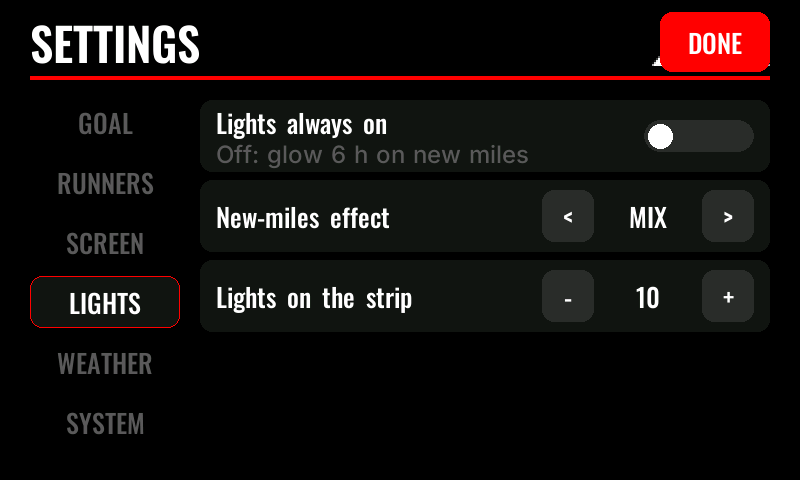
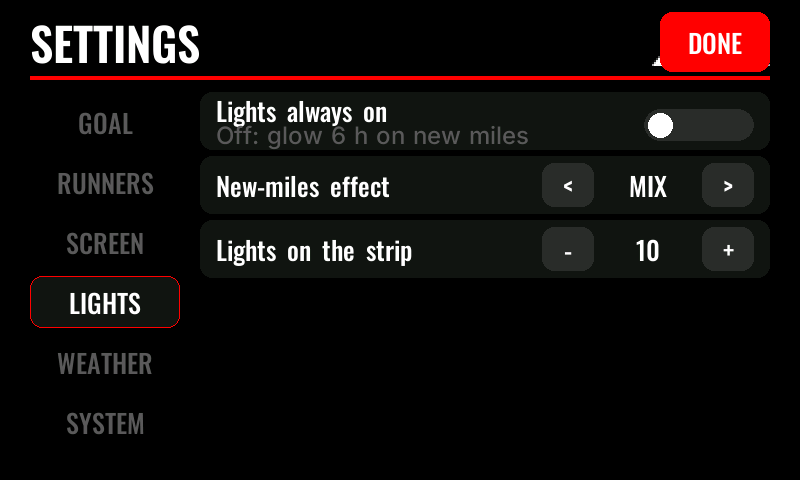
CrowPanel7 settings fixes: per-half theme background, 6 rows on screen, stable row labels
duo() now paints each runner's half with their own theme background so
light/dark theme mixes stay readable; settings rows shrink to fit six
(including both Colors rows and the photo row); sRow copies the label
into per-row storage so the two Colors rows don't share a dead pointer.

diff --git a/firmware-crowpanel7/src/ui.cpp b/firmware-crowpanel7/src/ui.cpp
@@ -306,19 +306,19 @@ void weatherText(char* wx, size_t n, const UiData& d) {
 }
 
 // Theme background, or the photo blended most of the way into it so the numbers stay readable.
-void bg(lgfx::LovyanGFX& g) {
-  if (!backdrop) return (void)g.fillScreen(c(g, BLACK));
+void bg(lgfx::LovyanGFX& g, int x0 = 0, int w = W) {
+  if (!backdrop) return (void)g.fillRect(x0, 0, w, H, c(g, BLACK));
   const float A = 0.32f;
   const int br = BLACK >> 16, bgc = (BLACK >> 8) & 0xFF, bb = BLACK & 0xFF;
   static uint16_t row[W];
   for (int y = 0; y < H; y++) {
-    const uint16_t* p = backdrop + y * W;
-    for (int x = 0; x < W; x++) {
+    const uint16_t* p = backdrop + y * W + x0;
+    for (int x = 0; x < w; x++) {
       const int r = ((p[x] >> 11) & 31) * 255 / 31, gr = ((p[x] >> 5) & 63) * 255 / 63, b = (p[x] & 31) * 255 / 31;
       const int R = br + (int)((r - br) * A), G = bgc + (int)((gr - bgc) * A), B = bb + (int)((b - bb) * A);
       row[x] = (R >> 3) << 11 | (G >> 2) << 5 | B >> 3;
     }
-    g.pushImage(0, y, W, 1, (const lgfx::rgb565_t*)row);
+    g.pushImage(x0, y, w, 1, (const lgfx::rgb565_t*)row);
   }
 }
 
@@ -398,7 +398,10 @@ void main(lgfx::LovyanGFX& g, const UiData& d) {
 
 void duo(lgfx::LovyanGFX& g, const UiData& a, const UiData& b) {
   const int saved = cur;
-  bg(g);
+  setTheme(a.theme);
+  bg(g, 0, W / 2);
+  setTheme(b.theme);
+  bg(g, W / 2, W / 2);
   runner(g, a, 0, W / 2, "Runner 1", false, nullptr);
   runner(g, b, W / 2, W / 2, "Runner 2", false, nullptr);
   g.fillRect(W / 2 - 1, 20, 2, H - 40, c(g, TRACK));
@@ -765,8 +768,8 @@ float frand(float a, float b) { return a + (b - a) * (rand() % 1000) / 1000.0f; 
 
 // ---- On-screen settings ------------------------------------------------------
 const int TAB_X = M, TAB_W = 150, TAB_Y0 = 96, TAB_H = 52, TAB_GAP = 8;
-const int SROW_X = 200, SROW_W = W - SROW_X - M, SROW_Y0 = 100, SROW_H = 72, SROW_GAP = 8;
-const int CTL_Y = SROW_H / 2 - 26, CTL_W = 52, CTL_H = 52, VAL_W = 108;
+const int SROW_X = 200, SROW_W = W - SROW_X - M, SROW_Y0 = 92, SROW_H = 58, SROW_GAP = 6;
+const int CTL_Y = SROW_H / 2 - 22, CTL_W = 52, CTL_H = 44, VAL_W = 108;
 const int CTL_X = SROW_X + SROW_W - (2 * CTL_W + VAL_W) - 16;
 
 void sTab(lgfx::LovyanGFX& g, int i, const char* name, bool on) {
@@ -808,12 +811,12 @@ void sRowDraw(lgfx::LovyanGFX& g, int i, const SetRow& r) {
   }
   if (*r.hint) {
     fit(g, &f_label, lbl, SROW_W - 200);
-    text(g, &f_label, WHITE, pbg, middle_left, lbl, SROW_X + 16, y + SROW_H / 2 - 14);
+    text(g, &f_label, WHITE, pbg, middle_left, lbl, SROW_X + 16, y + SROW_H / 2 - 11);
     char h[70];
     strncpy(h, r.hint, sizeof h - 1);
     h[sizeof h - 1] = 0;
     fit(g, &f_body, h, SROW_W - 200);
-    text(g, &f_body, DIM, pbg, middle_left, h, SROW_X + 16, y + SROW_H / 2 + 18);
+    text(g, &f_body, DIM, pbg, middle_left, h, SROW_X + 16, y + SROW_H / 2 + 14);
   } else {
     fit(g, &f_label, lbl, SROW_W - 200);
     text(g, &f_label, WHITE, pbg, middle_left, lbl, SROW_X + 16, y + SROW_H / 2);

diff --git a/firmware-crowpanel7/src/main.cpp b/firmware-crowpanel7/src/main.cpp
@@ -52,6 +52,7 @@ enum SetId {
 ui::SetRow setRows[9];
 int setIds[9], setCount = 0, setTab = 0, setRunner = 0;
 char setVals[9][44];
+char setLbls[9][48];
 bool setEraseArm = false;
 char setStatusBuf[60] = "";
 
@@ -642,10 +643,13 @@ void sRow(int id, ui::RowKind k, const char* label, const char* val = "", bool o
   char* v = setVals[setN];
   strncpy(v, val, sizeof setVals[0] - 1);
   v[sizeof setVals[0] - 1] = 0;
+  char* l = setLbls[setN];
+  strncpy(l, label, sizeof setLbls[0] - 1);
+  l[sizeof setLbls[0] - 1] = 0;
   ui::SetRow& r = setRows[setN];
   r.id = id;
   r.kind = k;
-  r.label = label;
+  r.label = l;
   r.value = v;
   r.on = on;
   r.hint = hint;
